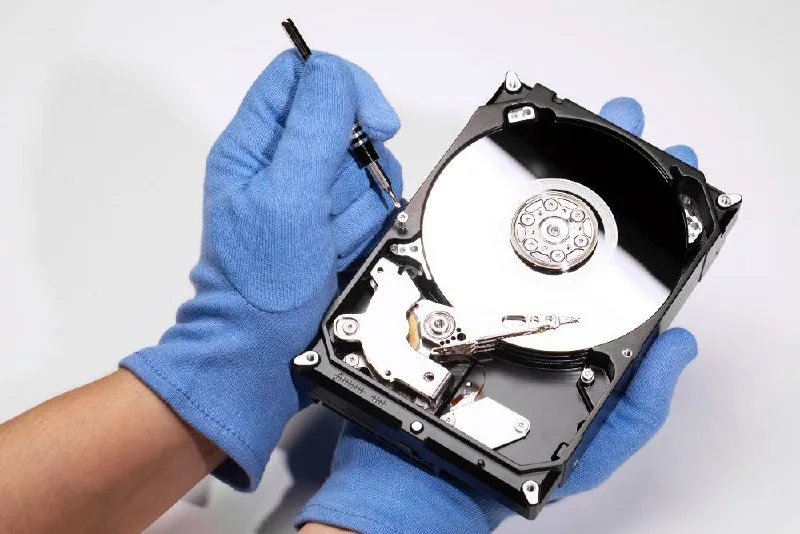
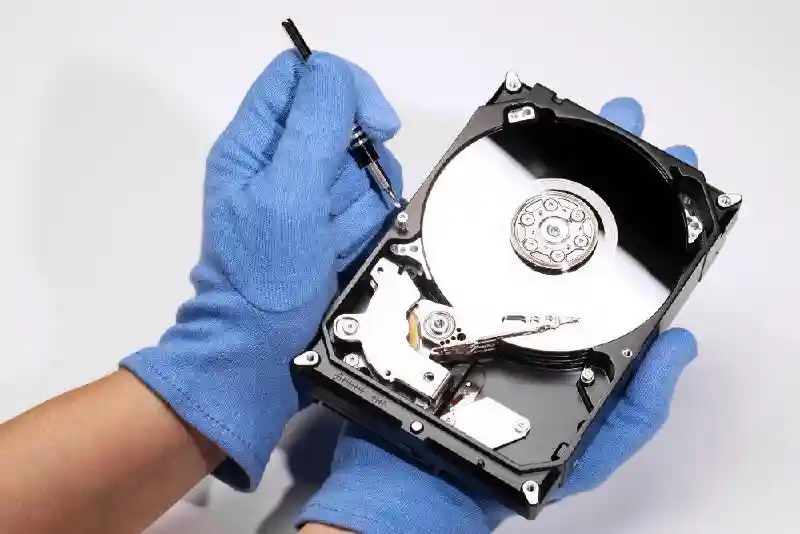
Perf: common-reasons image — recompress 800w (52→18 KiB), add 480w variant

diff --git a/pages/data-recovery/index.vue b/pages/data-recovery/index.vue
@@ -341,7 +341,7 @@ const toggleFaq = (i: number) => { openFaq.value = openFaq.value === i ? null : 
         </div>
         <div class="reasons-image">
           <img src="/common-reasons-data-recovery-640.webp"
-               srcset="/common-reasons-data-recovery-640.webp 640w, /common-reasons-data-recovery-800.webp 800w, /common-reasons-data-recovery-1280.webp 1280w"
+               srcset="/common-reasons-data-recovery-480.webp 480w, /common-reasons-data-recovery-640.webp 640w, /common-reasons-data-recovery-800.webp 800w, /common-reasons-data-recovery-1280.webp 1280w"
                sizes="(max-width: 640px) 100vw, (max-width: 1024px) 800px, 640px"
                alt="Data recovery technician working on hard drive with blue gloves"
                class="reasons-img" width="640" height="427" loading="lazy" />